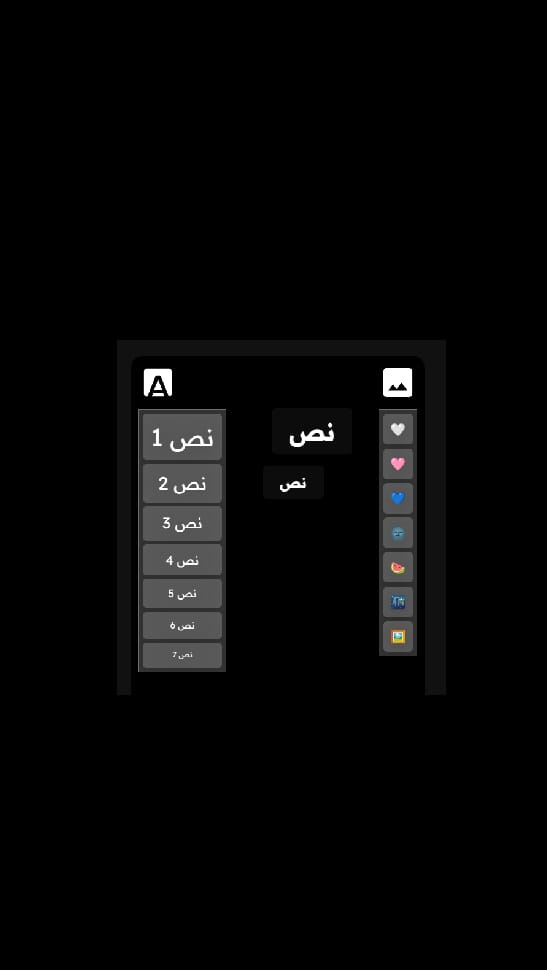
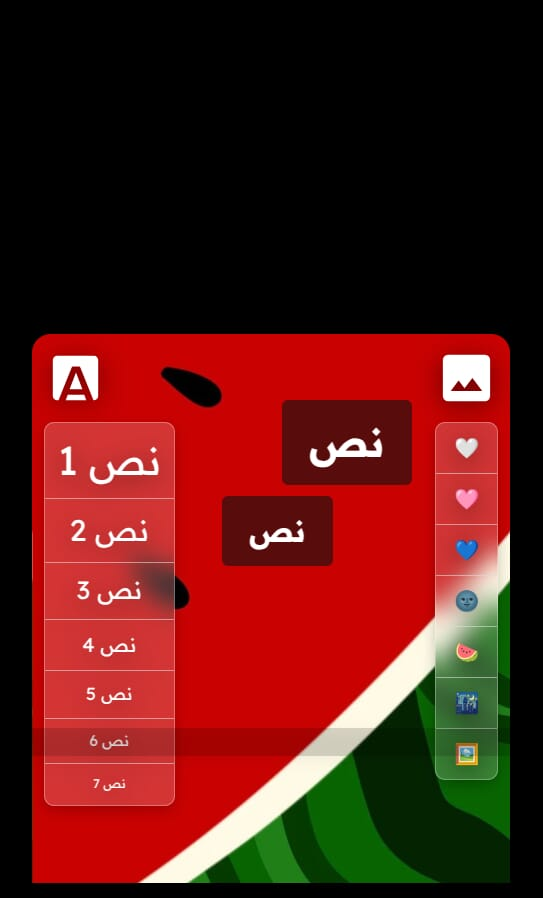
New Changes

diff --git a/index.html b/index.html
@@ -15,15 +15,14 @@
       .textbox { padding: 10px 22px !important; text-align: center; position: absolute; background: rgba(20, 20, 20, 0.62); color:white; padding: 5px; border-radius: 5px; cursor: grab; min-width: 50px; max-width: 90% !important; min-height: 20px; font-family: 'ReadexPro', sans-serif !important; }
       .change-bg { position: absolute; top: 10px; right: 10px; width: 50px; height: 50px; border-radius: 50%; border: 0; background-color: transparent; cursor: pointer;}
 
-      .dropdown { position: absolute; top: 70px; left: 10px; background: white; border: 1px solid #ccc; display: none; flex-direction: column; gap: 5px;}
+      .dropdown { position: absolute; top: 70px; left: 10px; background: white; border: 1px solid #ccc; display: none; flex-direction: column;}
       .dropdown button { background: none; border: none; padding: 5px; cursor: pointer; text-align: left; }
-      .dropdown button:hover { background: #ddd; }
-      .bg-dropdown { position: absolute; width: 50px; top: 70px; right: 10px; background: white; border: 1px solid #ccc; display: none; flex-direction: column; gap: 5px; }
+      .bg-dropdown { position: absolute; width: 50px; top: 70px; right: 10px; background: white; border: 1px solid #ccc; display: none; flex-direction: column; }
       .bg-dropdown button { background: none; border: none; padding: 5px; cursor: pointer; text-align: left; }
-      .bg-dropdown button:hover { background: #ddd; }
-      .dropdown, .bg-dropdown { z-index: 1000; background: rgba(255,255,255,0.2); backdrop-filter: blur(10px); border: 1px solid rgba(255,255,255,0.3); padding: 5px; box-shadow: 0 4px 10px rgba(0,0,0,0.2);}
-      .dropdown button, .bg-dropdown button {background: rgba(255,255,255,0.2); border: none; padding: 10px; cursor: pointer; text-align: left; color: white; font-size: 16px; border-radius: 5px; transition: background 0.3s ease; }
-      .dropdown button:hover, .bg-dropdown button:hover {background: rgba(255,255,255,0.3);}
+      .dropdown, .bg-dropdown { z-index: 1000; background: rgba(255,255,255,0.2); backdrop-filter: blur(10px); border: 1px solid rgba(255,255,255,0.3); box-shadow: 0 4px 10px rgba(0,0,0,0.2); border-radius: 8px;}
+      .dropdown button, .bg-dropdown button {background: transparent; border: none; padding: 10px; cursor: pointer; text-align: center; color: white; font-size: 16px; width: 100%; transition: background 0.3s ease; border-bottom: 1px solid rgba(222,222,222,0.6);}
+      .dropdown button:last-child, .bg-dropdown button:last-child {border: 0;}
+      .dropdown button:hover, .bg-dropdown button:hover {background: rgba(255,255,255,0.2);}
 
       .bg-default { background: black; }
       .bg-gradient { background: linear-gradient(45deg, #ff9a9e, #fad0c4); }
